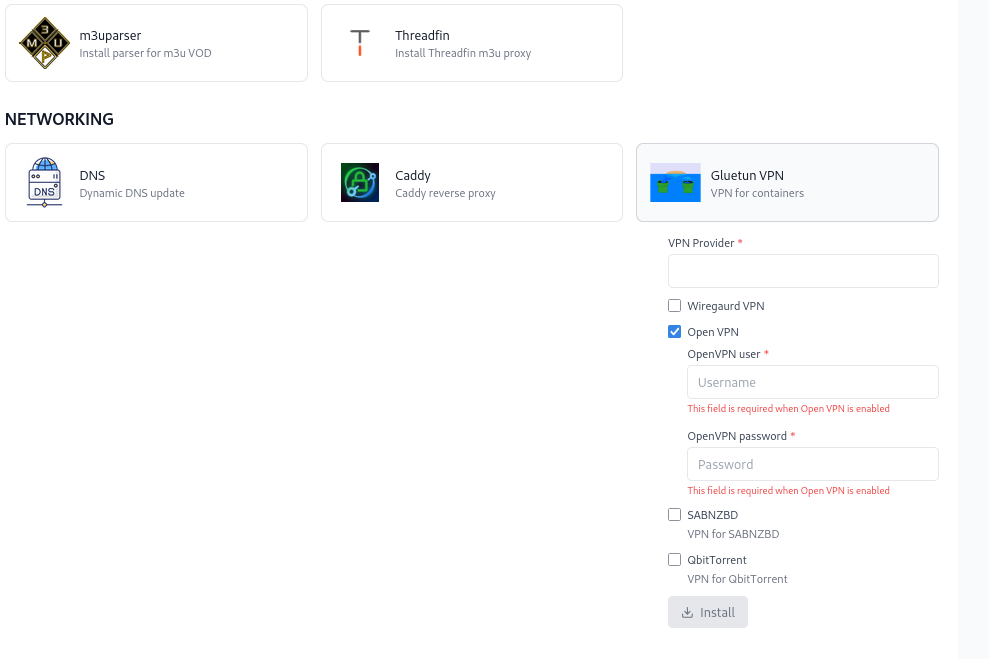
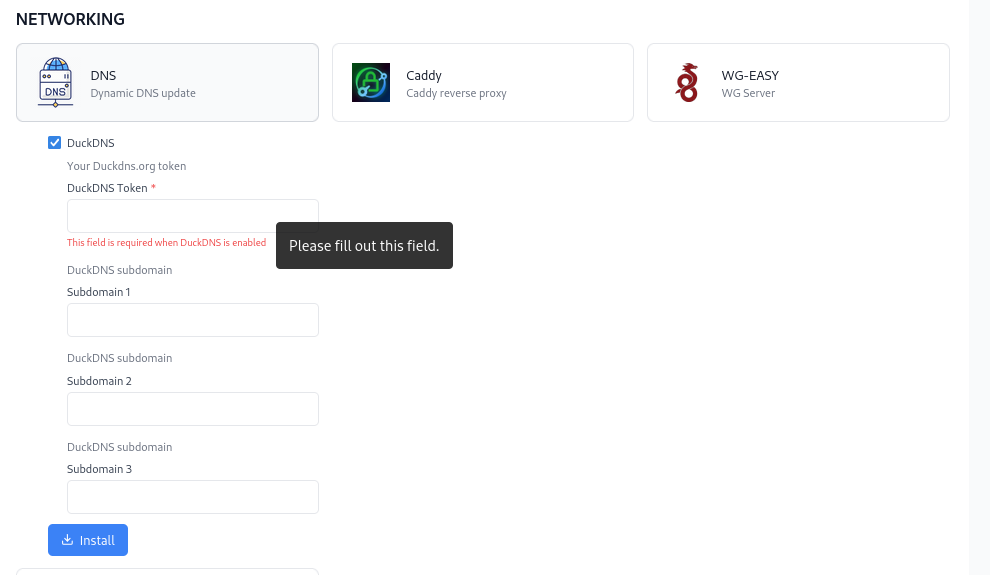
WG-EASY added to networking section. Compose files and scripts created for all NETWORKING apps

diff --git a/src/data/initialApps.ts b/src/data/initialApps.ts
@@ -565,6 +565,31 @@ export const initialApps: DockerApp[] = [
     ]
   },
   {
+    id: 'wgeasy',
+    name: 'WG-EASY',
+    installOrder: 7.4,
+    description: 'WG Server',
+    category: 'NETWORKING',
+    selected: false,
+    initialized: false,
+    visible: true,
+    iconUrl: '/images/wgeasy.png',
+    inputs: [
+      {
+        title: 'Host',
+        envName: 'WG_HOST',
+        type: 'text',
+        required: true
+      },
+      {
+        title: 'Password',
+        envName: 'PASSWORD_HASH',
+        type: 'text',
+        required: true
+      }
+    ]
+  },
+  {
     id: 'gluetun_vpn',
     name: 'Gluetun VPN',
     installOrder: 7.1,

diff --git a/README.md b/README.md
@@ -20,6 +20,8 @@ This currently is a work in progress and only exists as a proof of concept. The 
 
 ![](./imgs/Networking1.png)
 
+![](./imgs/Networking4.png)
+
 ![](./imgs/Networking2.png)
 
 ![](./imgs/Networking3.png)
